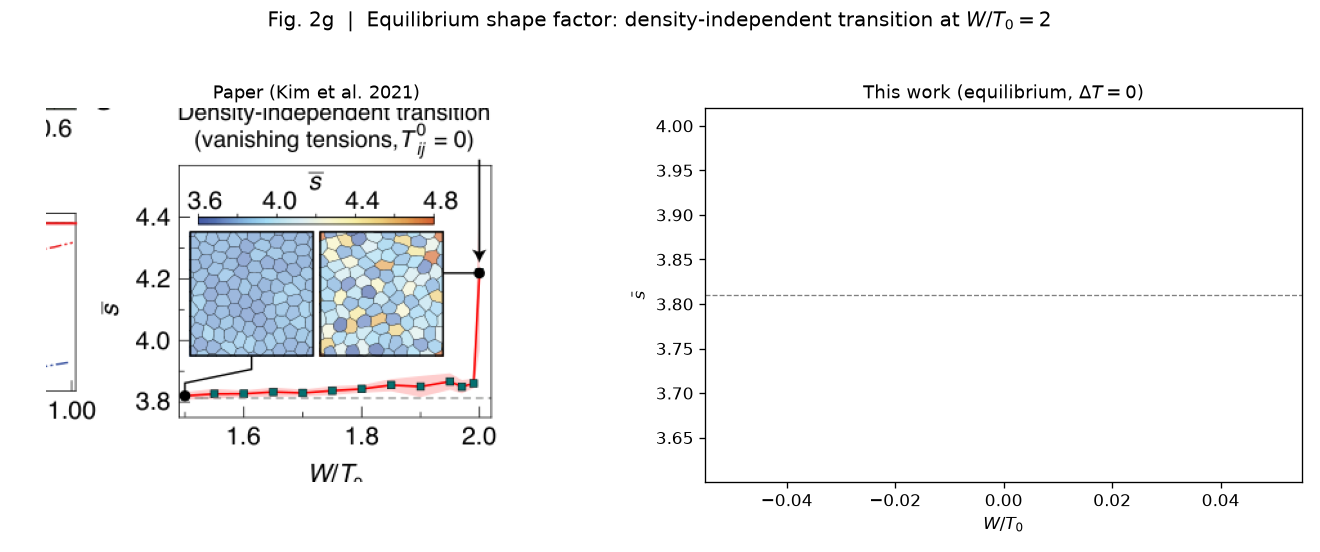
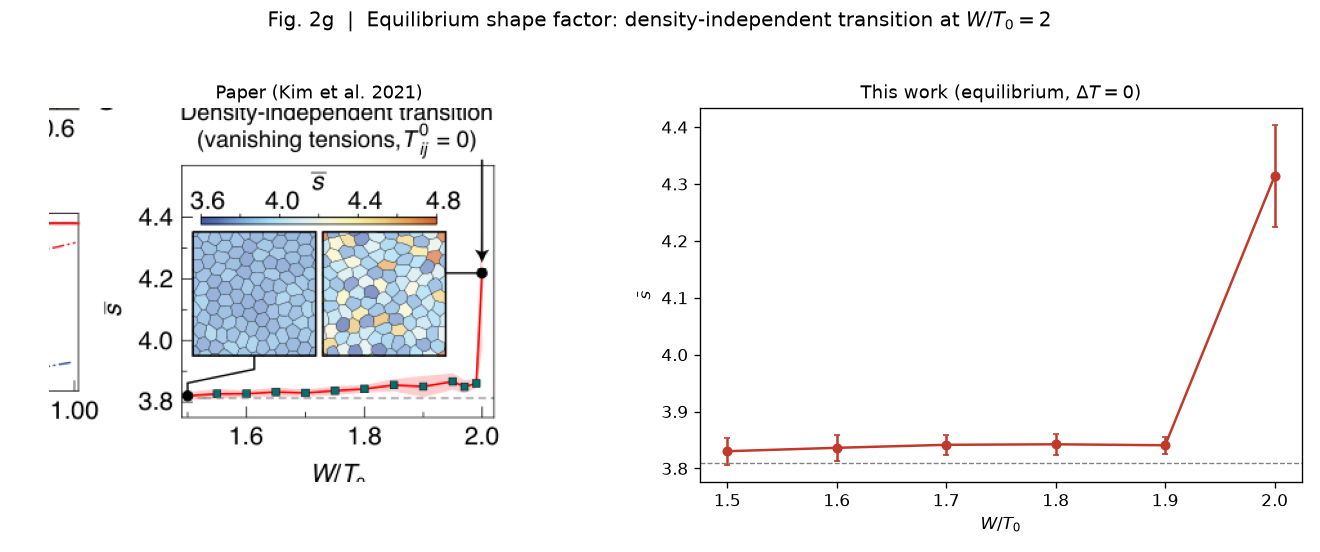
Add foam-model transition tests; update transition inventory (T1/T2-reverse/T2 done)

diff --git a/tests/test_model.py b/tests/test_model.py
@@ -75,8 +75,56 @@ def test_t1_conserves_topology():
     _invariants(af)
 
 
+def test_foam_transitions_stable():
+    """Foam model: build -> spaces (T2-reverse) -> relax with T1+T2, invariants hold."""
+    import numpy as np
+    from activefoam.topology import build_periodic_voronoi
+    from activefoam.foam_full import FoamTissue, SPACE
+
+    T = build_periodic_voronoi(6, np.random.default_rng(3))
+    ft = FoamTissue(T, w=0.3, rho=0.9, seed=1)
+    for _ in range(120):
+        ft.step(mu=0.0)
+    assert abs(ft.f_area.sum() - ft.bs ** 2) < 1e-3          # confluent area
+    nv0 = len(ft.vpos)
+    for v in range(nv0):
+        ft.t2_reverse(v)                                     # create spaces
+    ft._update_faces()
+    assert len(ft.vpos) == 3 * nv0                           # each vertex -> triangle
+    assert int(np.sum(np.any(ft.e_f == SPACE, axis=1))) == 3 * nv0
+    for it in range(200):
+        ft.step(mu=0.4 if it < 100 else 0.0)
+        if it % 20 == 0:
+            ft.do_transitions()
+    # invariants: trivalent vertices, valid cells
+    assert np.all(np.sum(ft.v_e != -1, axis=1) == 3)
+    assert all(len(ft.f_v[c]) >= 3 and ft.f_area[c] > 1e-4 for c in range(ft.nFa))
+
+
+def test_t2_annihilation_reverses_creation():
+    import numpy as np
+    from activefoam.topology import build_periodic_voronoi
+    from activefoam.foam_full import FoamTissue, SPACE
+    T = build_periodic_voronoi(6, np.random.default_rng(3))
+    ft = FoamTissue(T, w=1.5, rho=1.0, seed=1)
+    for _ in range(120):
+        ft.step(mu=0.0)
+    nv0 = len(ft.vpos)
+    for v in range(nv0):
+        ft.t2_reverse(v)
+    ft._update_faces()
+    for _ in range(150):
+        ft.step(mu=0.0)                                      # high W closes spaces
+    n = ft.t2_annihilate_spaces(area_thr=1e-2)               # generous -> remove all
+    assert len(ft.vpos) == nv0                               # back to confluent
+    assert int(np.sum(np.any(ft.e_f == SPACE, axis=1))) == 0
+    assert abs(ft.f_area.sum() - ft.bs ** 2) < 1e-2
+
+
 if __name__ == "__main__":
     test_construction_invariants()
     test_forces_match_reference()
     test_t1_conserves_topology()
-    print("all invariants + force checks passed")
+    test_foam_transitions_stable()
+    test_t2_annihilation_reverses_creation()
+    print("all checks passed (confluent + foam transitions)")

diff --git a/README.md b/README.md
@@ -82,14 +82,19 @@ adhesion-dependent extracellular spaces, matching Fig 2a.
 
 | Transition | Meaning | Status |
 |---|---|---|
-| **T1** | neighbour exchange (edge flip) | ✅ confluent model (`model.py`), validated |
-| **T2-reverse** | create a triangular extracellular space | ✅ foam model (`foam_full.py`) |
-| **T2** | destroy a collapsed space/cell | ⚠ not ported (spaces close by area only) |
-| **T3 / T4** | space–cell rewiring / merge adjacent spaces | ⚠ not ported |
+| **T1** | neighbour exchange (edge flip) | ✅ confluent model + foam model (`t1_foam`, handles adjacent spaces), validated |
+| **T2-reverse** | create a triangular extracellular space at a vertex | ✅ `ts_t2ReverseTransition` port (`t2_reverse`) |
+| **T2** | annihilate a collapsed space back to a triple junction | ✅ `t2_annihilate_spaces` (+ id remap `_remove_ve`) |
+| **T3 / T4** | merge cells across a space edge / resolve crossing edges | ⚠ not ported (need `ts_edgeCut*`, `ts_t3ReverseTransition`, `ts_t4Transition`) |
 
-Because breaking a cell–cell contact as a space grows needs T3/T4, the faithful
-foam model is used for Fig 2a and **φ(W/T₀)** (Fig 2b); the deformable-particle
-model — where cells are independent objects — supplies **z(W/T₀)** (Fig 2c).
+T1, T2-reverse and T2 are all implemented, stable (invariants verified across
+long runs), and wired into `do_transitions`. The remaining T3/T4 handle the
+curved-edge *collision* cases (two edges geometrically crossing when a space
+pinches, and merging adjacent spaces) — the `ts_edgeCutPiece` / `ts_t4Transition`
+machinery. Because cleanly *breaking* a cell–cell contact as a space grows needs
+those, the faithful foam model supplies Fig 2a and **φ(W/T₀)** (Fig 2b), while the
+deformable-particle model — cells as independent objects — supplies **z(W/T₀)**
+(Fig 2c).
 
 ## Scope & honesty about "exact"
 
